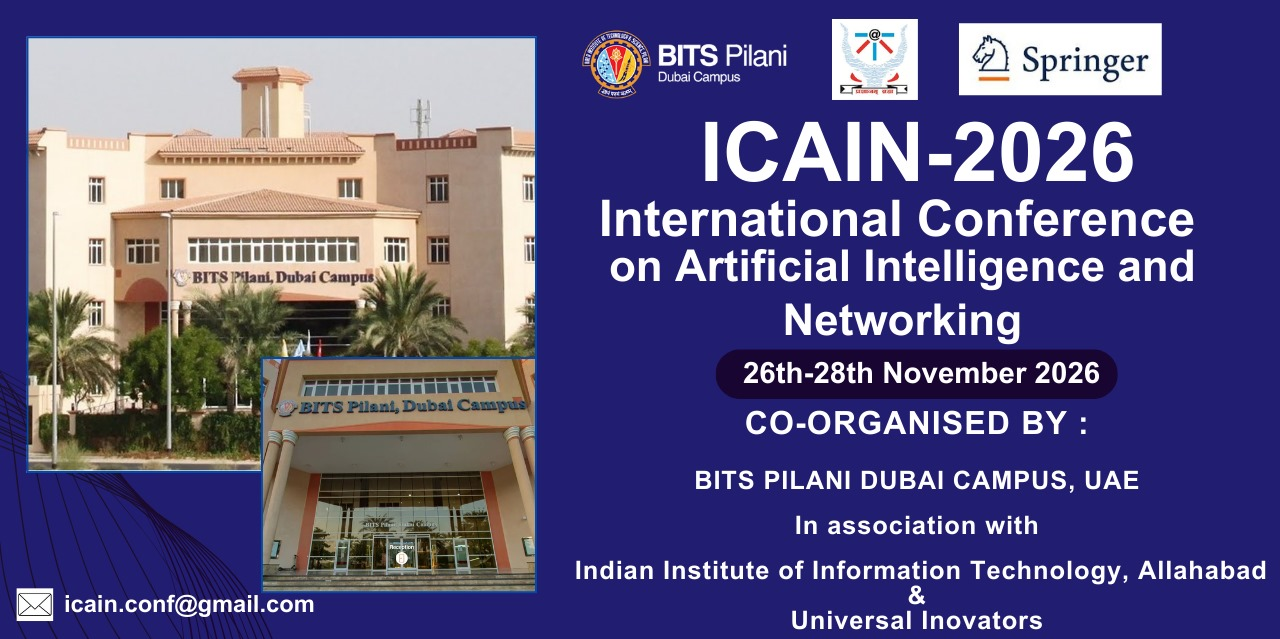
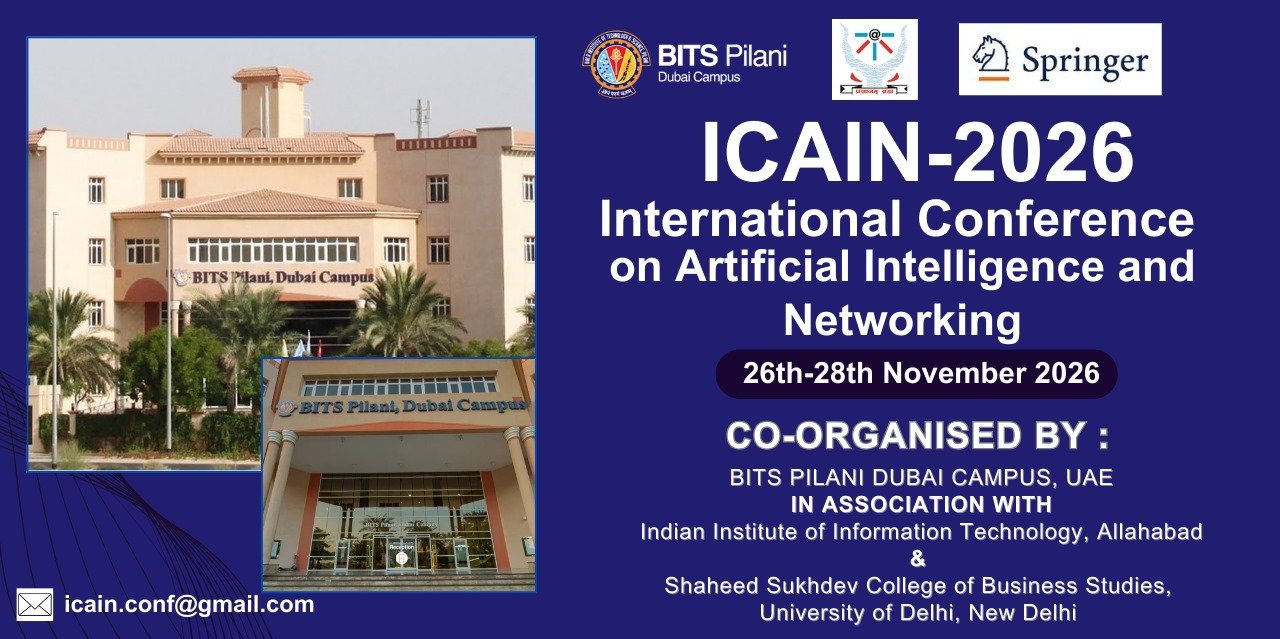
clg

Changed region(s): [[0.4375, 0.6244, 1.0, 1.0]]

diff --git a/src/Components/Header/header.jsx b/src/Components/Header/header.jsx
@@ -60,6 +60,10 @@ function HeaderMain() {
             <span style={{'color':'#211D70',fontSize:'1.25rem'}}>
               Indian Institute of Information Technology, Allahabad
 
+            </span><br/> & <br/>
+            <span style={{'color':'#211D70',fontSize:'1.25rem'}}>
+               Shaheed Sukhdev College of Business Studies, University of Delhi, Delhi
+
             </span>
             {/* and <br /><span className="hblue">Institute of Technology and Business in České Budějovice, Czech Republic</span><br /> &
             <span className="hblue"> Keshav Mahavidyalaya, Delhi University</span> */}

diff --git a/src/Components/CommitteeSection/SteeringCmte/SCcards/SCcards.jsx b/src/Components/CommitteeSection/SteeringCmte/SCcards/SCcards.jsx
@@ -83,6 +83,10 @@ function SCcards() {
       h1: "Dr. Pancham Shukla",
       p: "Imperial College London"
     },
+    {
+      h1: "Prof. Ajay Jaiswal",
+      p: "Principal, School of Open Learning & Shaheed Sukhdev of College of Business Studies, University of Delhi, Delhi"
+    },
     // {
     //   h1: "Dr. Shamik Palit",
     //   p: "Associate Prof. CS and SE, HEAD - Corporate Outreach Committee, University of Stirling RAK Campus, UAE"
